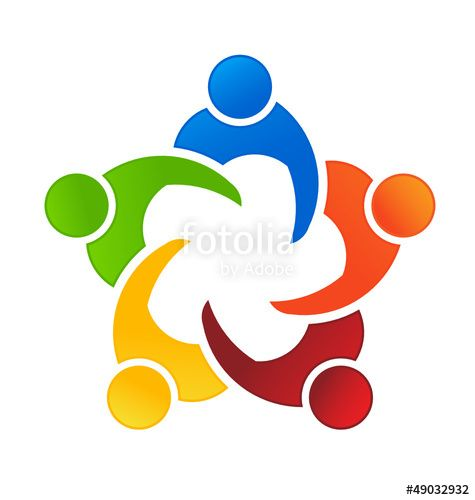
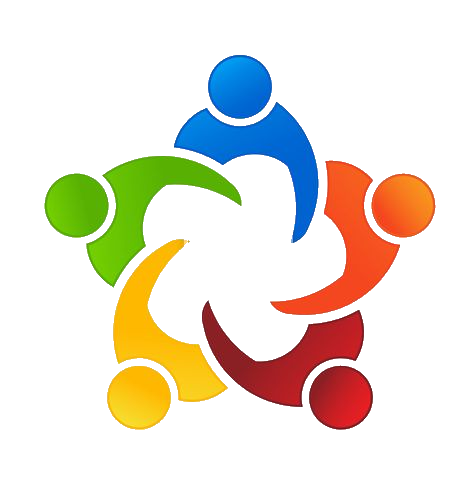
logofix

diff --git a/Index.html b/Index.html
@@ -13,6 +13,7 @@
        
         <div class="header">
                 <span class="myLogo">
+                        <img src="travail collaboratif.png" alt="how" width="250" height="250" style="margin-left: 5%;">
                 </span>
                             
                 <span class="nom">

diff --git a/bitcoin.html b/bitcoin.html
@@ -13,6 +13,7 @@
        
         <div class="header">
                 <span class="myLogo">
+                        <img src="travail collaboratif.png" alt="how" width="250" height="250" style="margin-left: 5%;">
                 </span>
                             
                 <span class="nom">

diff --git a/sources.html b/sources.html
@@ -13,6 +13,7 @@
        
         <div class="header">
                 <span class="myLogo">
+                        <img src="travail collaboratif.png" alt="how" width="250" height="250" style="margin-left: 5%;">
                 </span>
                             
                 <span class="nom">

diff --git a/definition.html b/definition.html
@@ -13,6 +13,7 @@
        
         <div class="header">
                 <span class="myLogo">
+                    <img src="travail collaboratif.png" alt="how" width="250" height="250" style="margin-left: 5%;">
                 </span>
                             
                 <span class="nom">

diff --git a/style 2.css b/style 2.css
@@ -20,12 +20,12 @@ body {
 
 .myLogo {
     display: flex;
-    float: left;
+    float: right;
     margin-left: 50%;
-    margin-right: 50%;
+    margin-right: 42%;
     margin-top: 0px;
-    content:url("travail collaboratif.png");
-}
+
+    }
 
 .nom {
     white-space: nowrap ;

diff --git a/style.css b/style.css
@@ -20,11 +20,11 @@ body {
 
 .myLogo {
     display: flex;
-    float: left;
+    float: right;
     margin-left: 50%;
-    margin-right: 50%;
+    margin-right: 42%;
     margin-top: 0px;
-    content:url("travail collaboratif.png");
+   
 }
 
 .nom {
